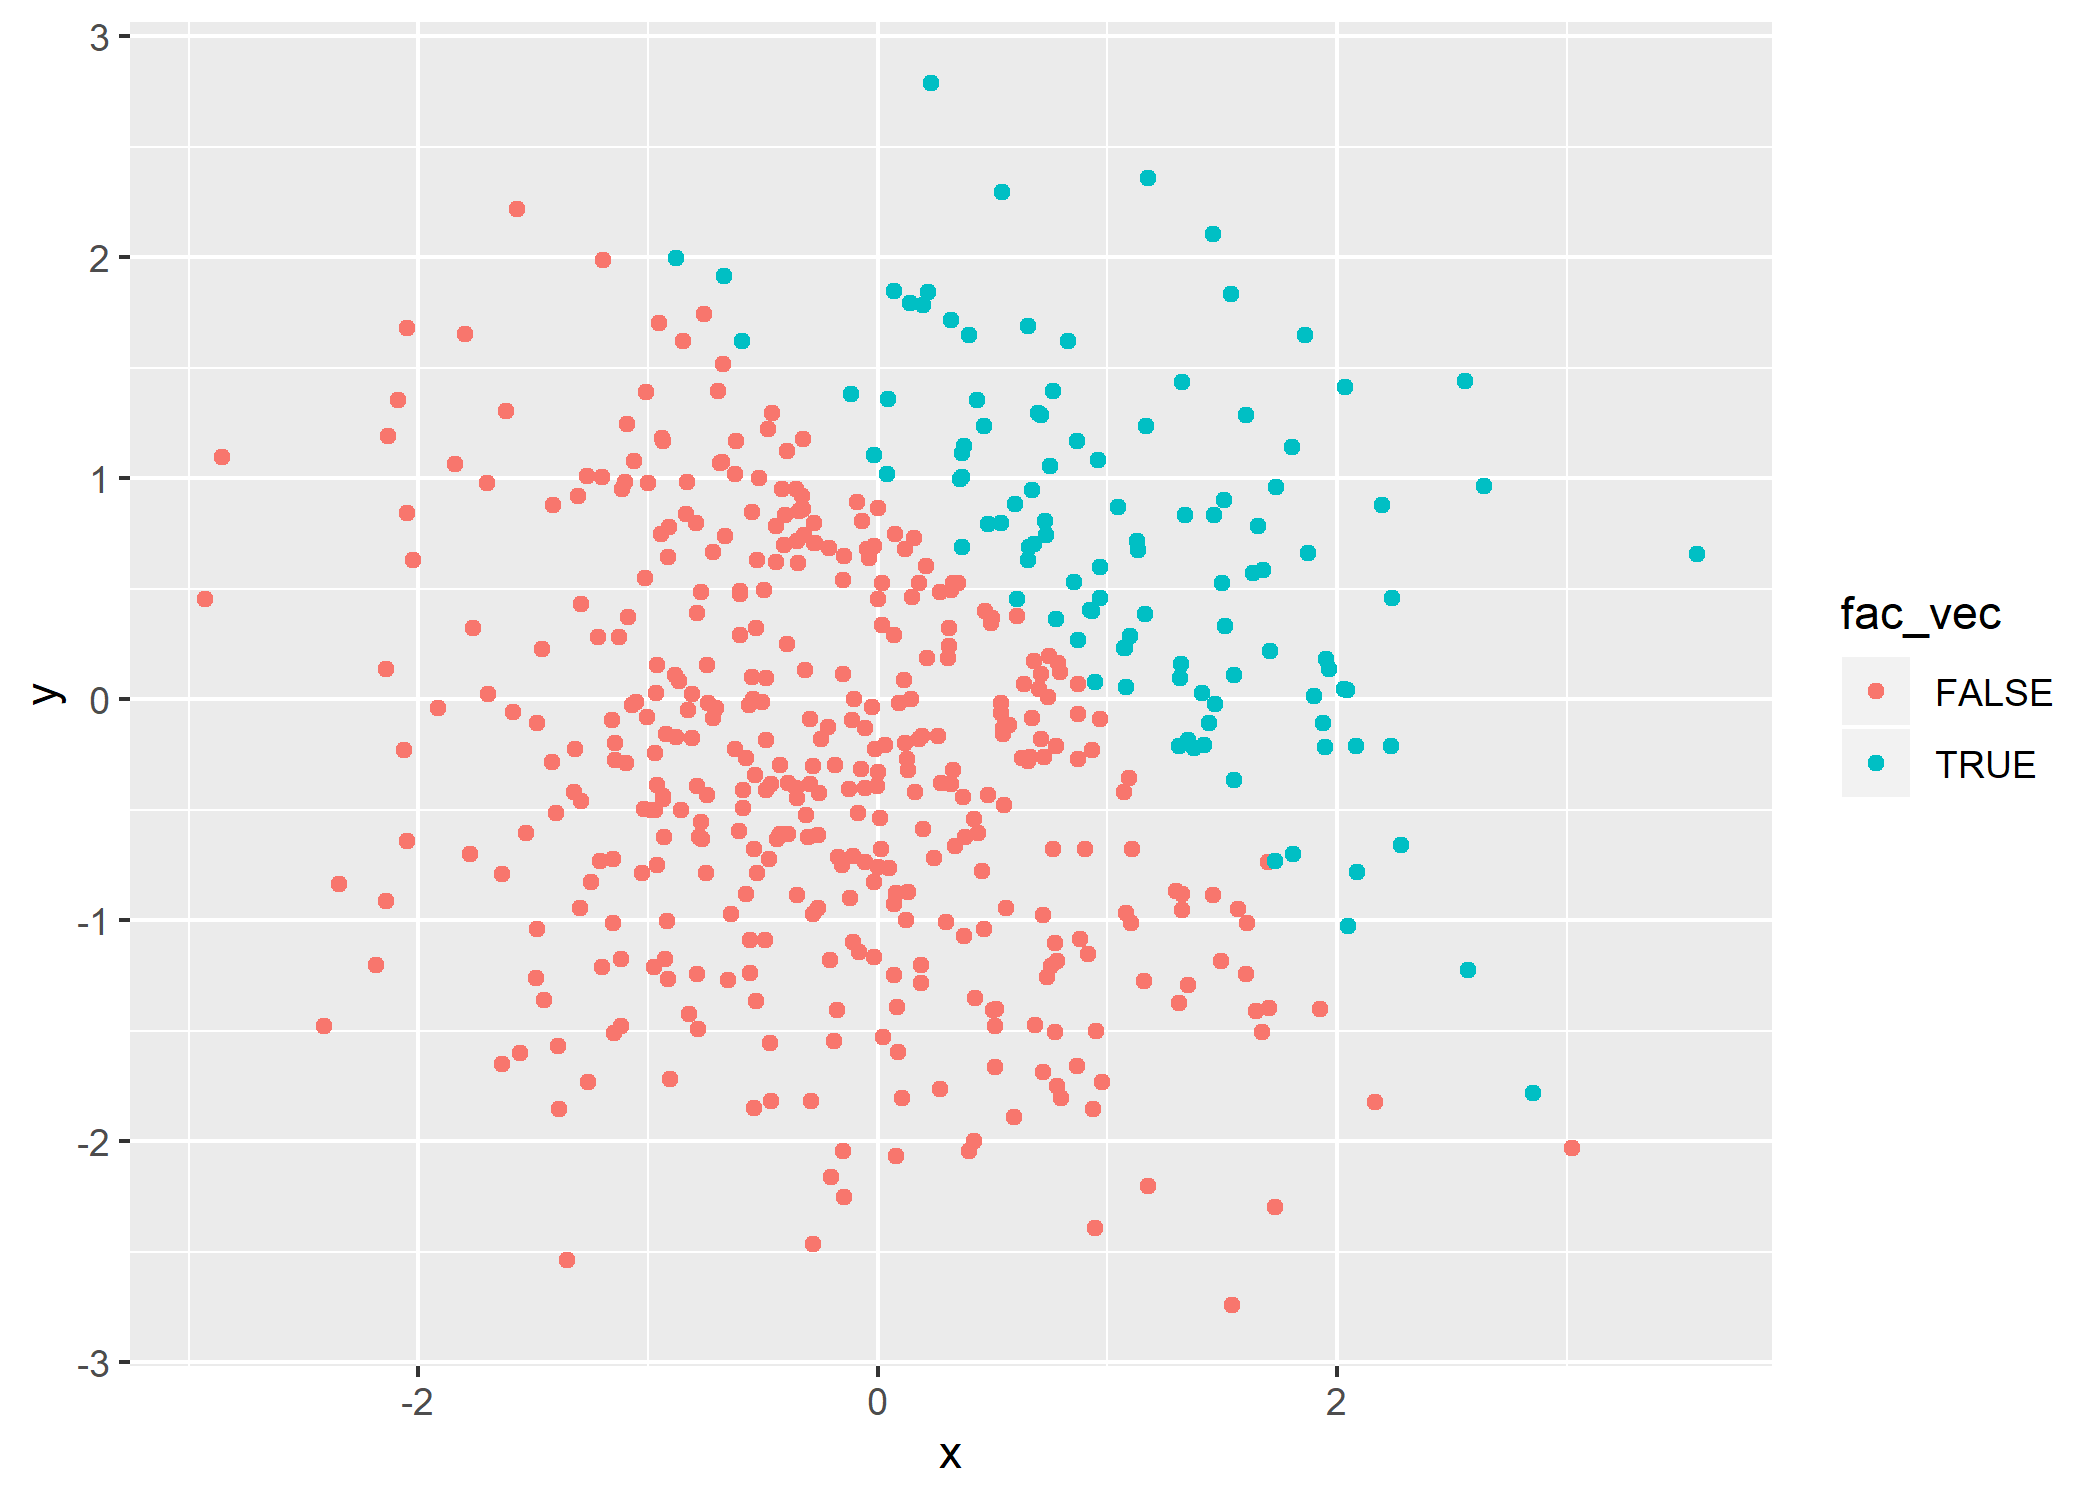
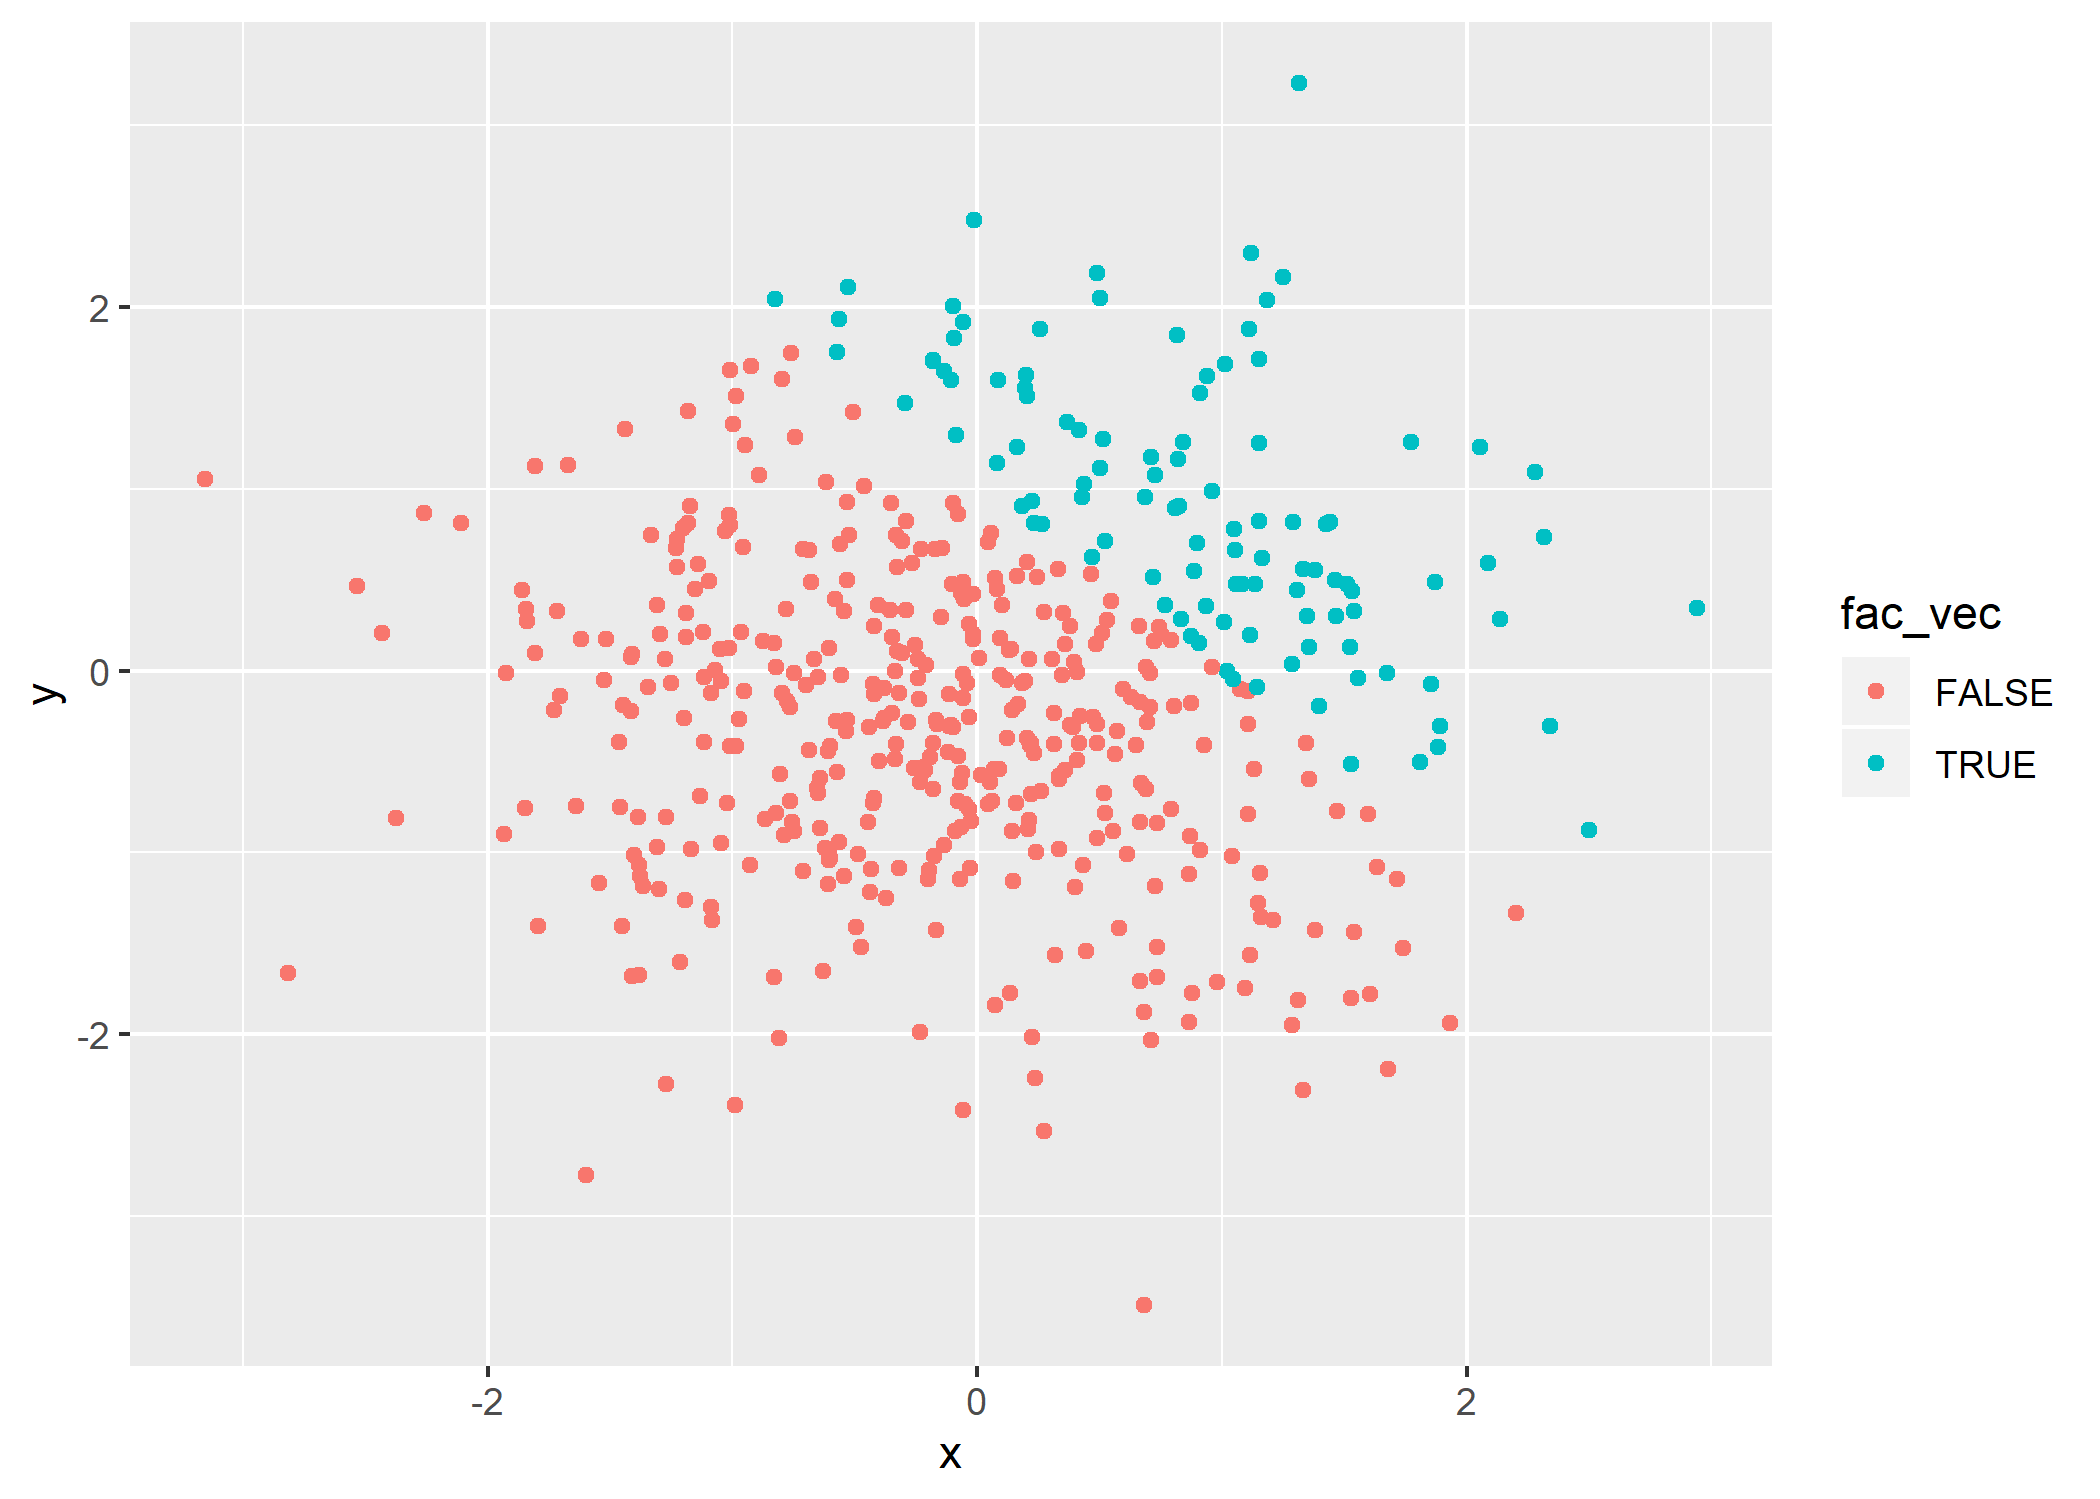
added comments

diff --git a/p8105_hw1_ilz2105.md b/p8105_hw1_ilz2105.md
@@ -7,12 +7,13 @@ Lulu Zhang
 | ------------- |
 | **Problem 1** |
 
-Bewlow I created a data frame that has: a random sample of size 8 from a
+Below I created a data frame that has: a random sample of size 8 from a
 standard Normal distribution, a logical vector indicating whether
 elements of the sample are greater than 0, a character vector of length
 8, and a factor vector of length 8, with 3 different factor “levels”.
 
 ``` r
+## Create data frame
 df_1 = tibble(
   ran_samp = rnorm(8),
   log_vec = ran_samp > 0,
@@ -20,7 +21,7 @@ df_1 = tibble(
   fac_vec = factor(c( "yes", "no", "maybe", "yes", "no", "maybe", "yes", "no"))
 )
 
-### Take the mean of each variable in dataframe
+## Take the mean of each variable in dataframe
 mean_samp = mean(pull(df_1, ran_samp))
 mean_log = mean(pull(df_1, log_vec))
 mean_char = mean(pull(df_1, vec_char))
@@ -38,36 +39,37 @@ mean_fac = mean(pull(df_1, fac_vec))
 
 I found the mean for `mean_samp` and `mean_log`, but could not get the
 mean for `mean_char` and `mean_fac` because they were not numeric
-values. The mean for `mean_samp` is -0.0149645, and the mean for
+values. The mean for `mean_samp` is 0.2122077, and the mean for
 `mean_log` is 0.625.
 
 Below, I applied `as.numeric` to the logical, character, and factor
 vectors to coerce into numeric vectors.
 
 ``` r
+## coerce into numeric vectors 
 as.numeric(pull(df_1, vec_char))
 as.numeric(pull(df_1, fac_vec))
 
-### convert the logical vector to numeric, and multiply the random sample by the result
+## convert the logical vector to numeric, and multiply the random sample by the result
 as.numeric(pull(df_1, log_vec))*(pull(df_1, ran_samp))
 
-### convert the logical vector to a factor, and multiply the random sample by the result
+## convert the logical vector to a factor, and multiply the random sample by the result
 as.factor(pull(df_1, log_vec))*(pull(df_1, ran_samp))
 
-### convert the logical vector to a factor and then convert the result to numeric, 
-### and multiply the random sample by the result
+## convert the logical vector to a factor and then convert the result to numeric, 
+## and multiply the random sample by the result
 
 as.numeric(as.factor(pull(df_1, log_vec)))*(pull(df_1, ran_samp))
 ```
 
 The product of `log_vec` after being converted to numeric and `ran_samp`
-is 0.0590595, 1.1278191, 0.1139167, 0, 0, 0.8772463, 0, 0.3932882. We
+is 0.6769403, 2.4476847, 0, 1.2320885, 0.4870146, 0, 0, 0.6239952. We
 cannot mutiply a factor, so trying to convert `log_vec` to a factor and
 then multiplying `ran_samp` by the result did not work. However, we are
 able to convert `log_vec` to a factor and then convert that to a numeric
 vector and multiply that by `ran_samp` because they are both numeric
-vectors. The result was 0.1181191, 2.2556381, 0.2278334, -1.1264145,
--1.3853845, 1.7544927, -0.1792468, 0.7865764.
+vectors. The result was 1.3538806, 4.8953694, -1.4441797, 2.4641769,
+0.9740292, -1.4113638, -0.9145178, 1.2479904.
 
 |               |
 | ------------- |
@@ -80,19 +82,20 @@ standard Normal distribution, a logical vector indicating whether x + y
 a factor vector created by coercing the above logical vector.
 
 ``` r
+## create a data frame
 df_2 = tibble(
   x = rnorm(500),
   y = rnorm(500),
   logical_vec = x + y > 1,
-  num_log= as.numeric(logical_vec),
-  fac_vec= as.factor(logical_vec)
+  num_log = as.numeric(logical_vec),
+  fac_vec = as.factor(logical_vec)
 )
 ```
 
 The dataframe created above, `df_2`, has 500 rows and 5 columns The mean
-of `x` is 0.0376709. The median of `x` is 0.0376709. The standard
-deviation of `x` is 1.0452017. The proportion of cases for which x + y
-\> 1 is 0.216
+of `x` is -0.0092488. The median of `x` is -0.0092488. The standard
+deviation of `x` is 0.9704235. The proportion of cases for which x + y
+\> 1 is 0.214
 
 Below I created a scatterplot of y vs x and colored points using the
 logical variable, `logical_vec`. Then, I created a second and third
@@ -100,17 +103,17 @@ scatterplot that color points using the numeric and factor variables,
 `num_log` and `fac_vec`, respectively.
 
 ``` r
-# scatterplot with colored points using the logical variable
+## scatterplot with colored points using the logical variable
 plot_1 = ggplot(df_2, aes(x, y, color = logical_vec)) + geom_point()
 
-# scatterplot with colored points using the numeric variable
+## scatterplot with colored points using the numeric variable
 plot_2 = ggplot(df_2, aes(x, y, color = num_log)) + geom_point()
 
-# scatterplot with colored points using the factor variable
+## scatterplot with colored points using the factor variable
 plot_3 = ggplot(df_2, aes(x, y, color = fac_vec)) + geom_point()
 
 
-# export first scatterplot to directory
+## export first scatterplot to directory
 ggsave("plot_1.png")
 ```
 
